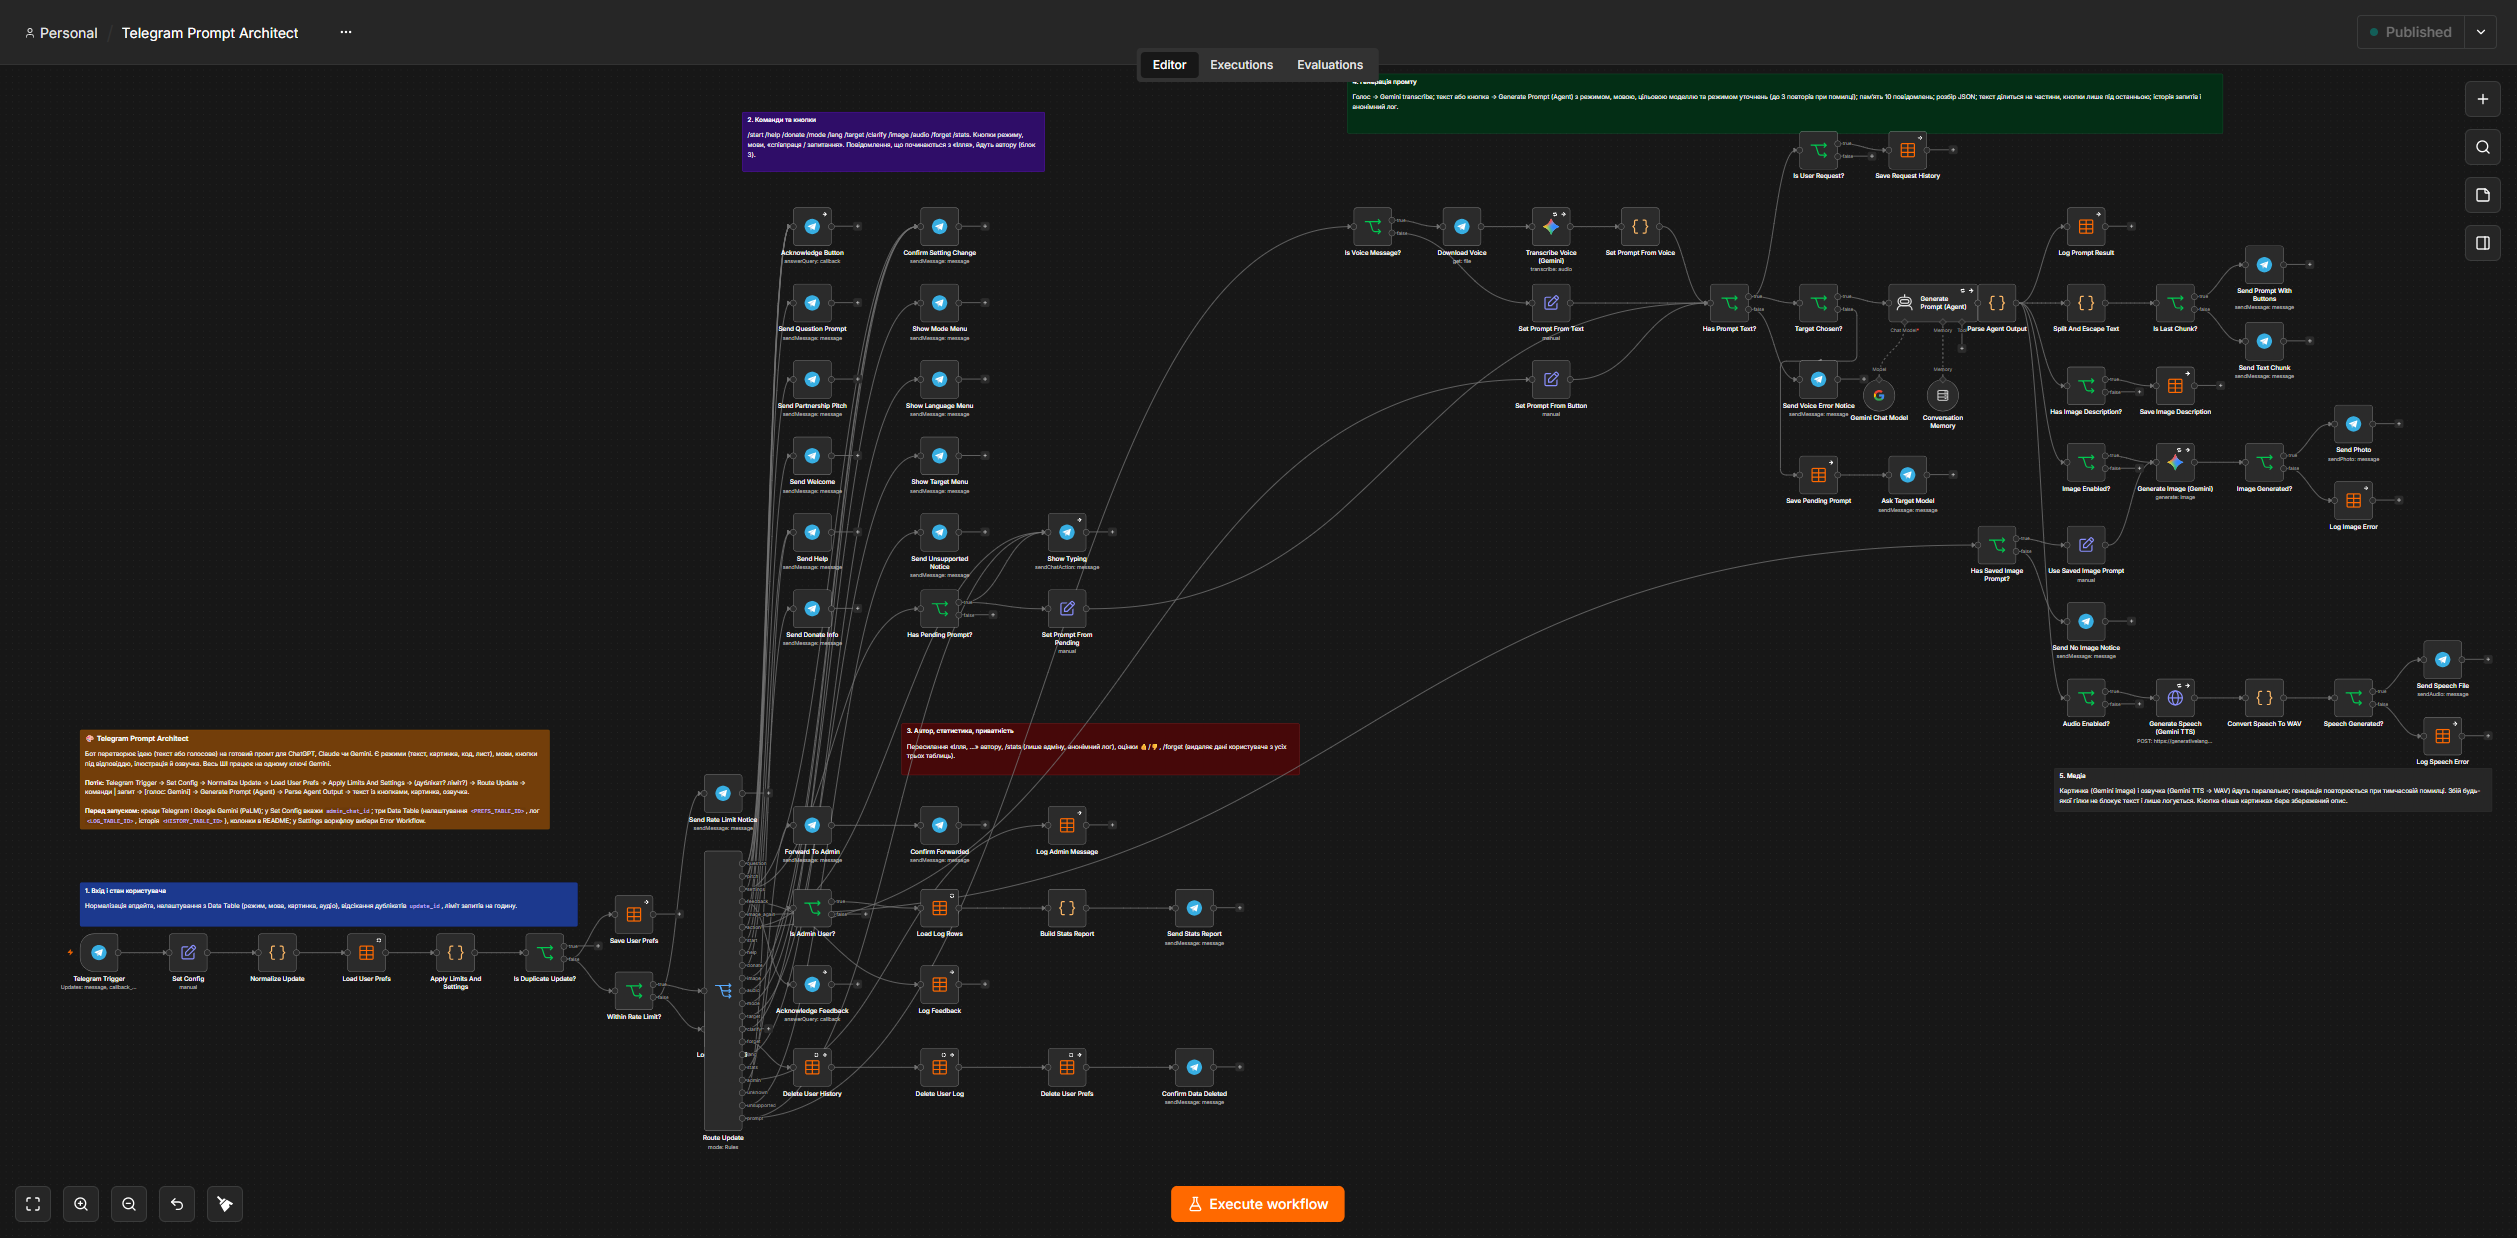
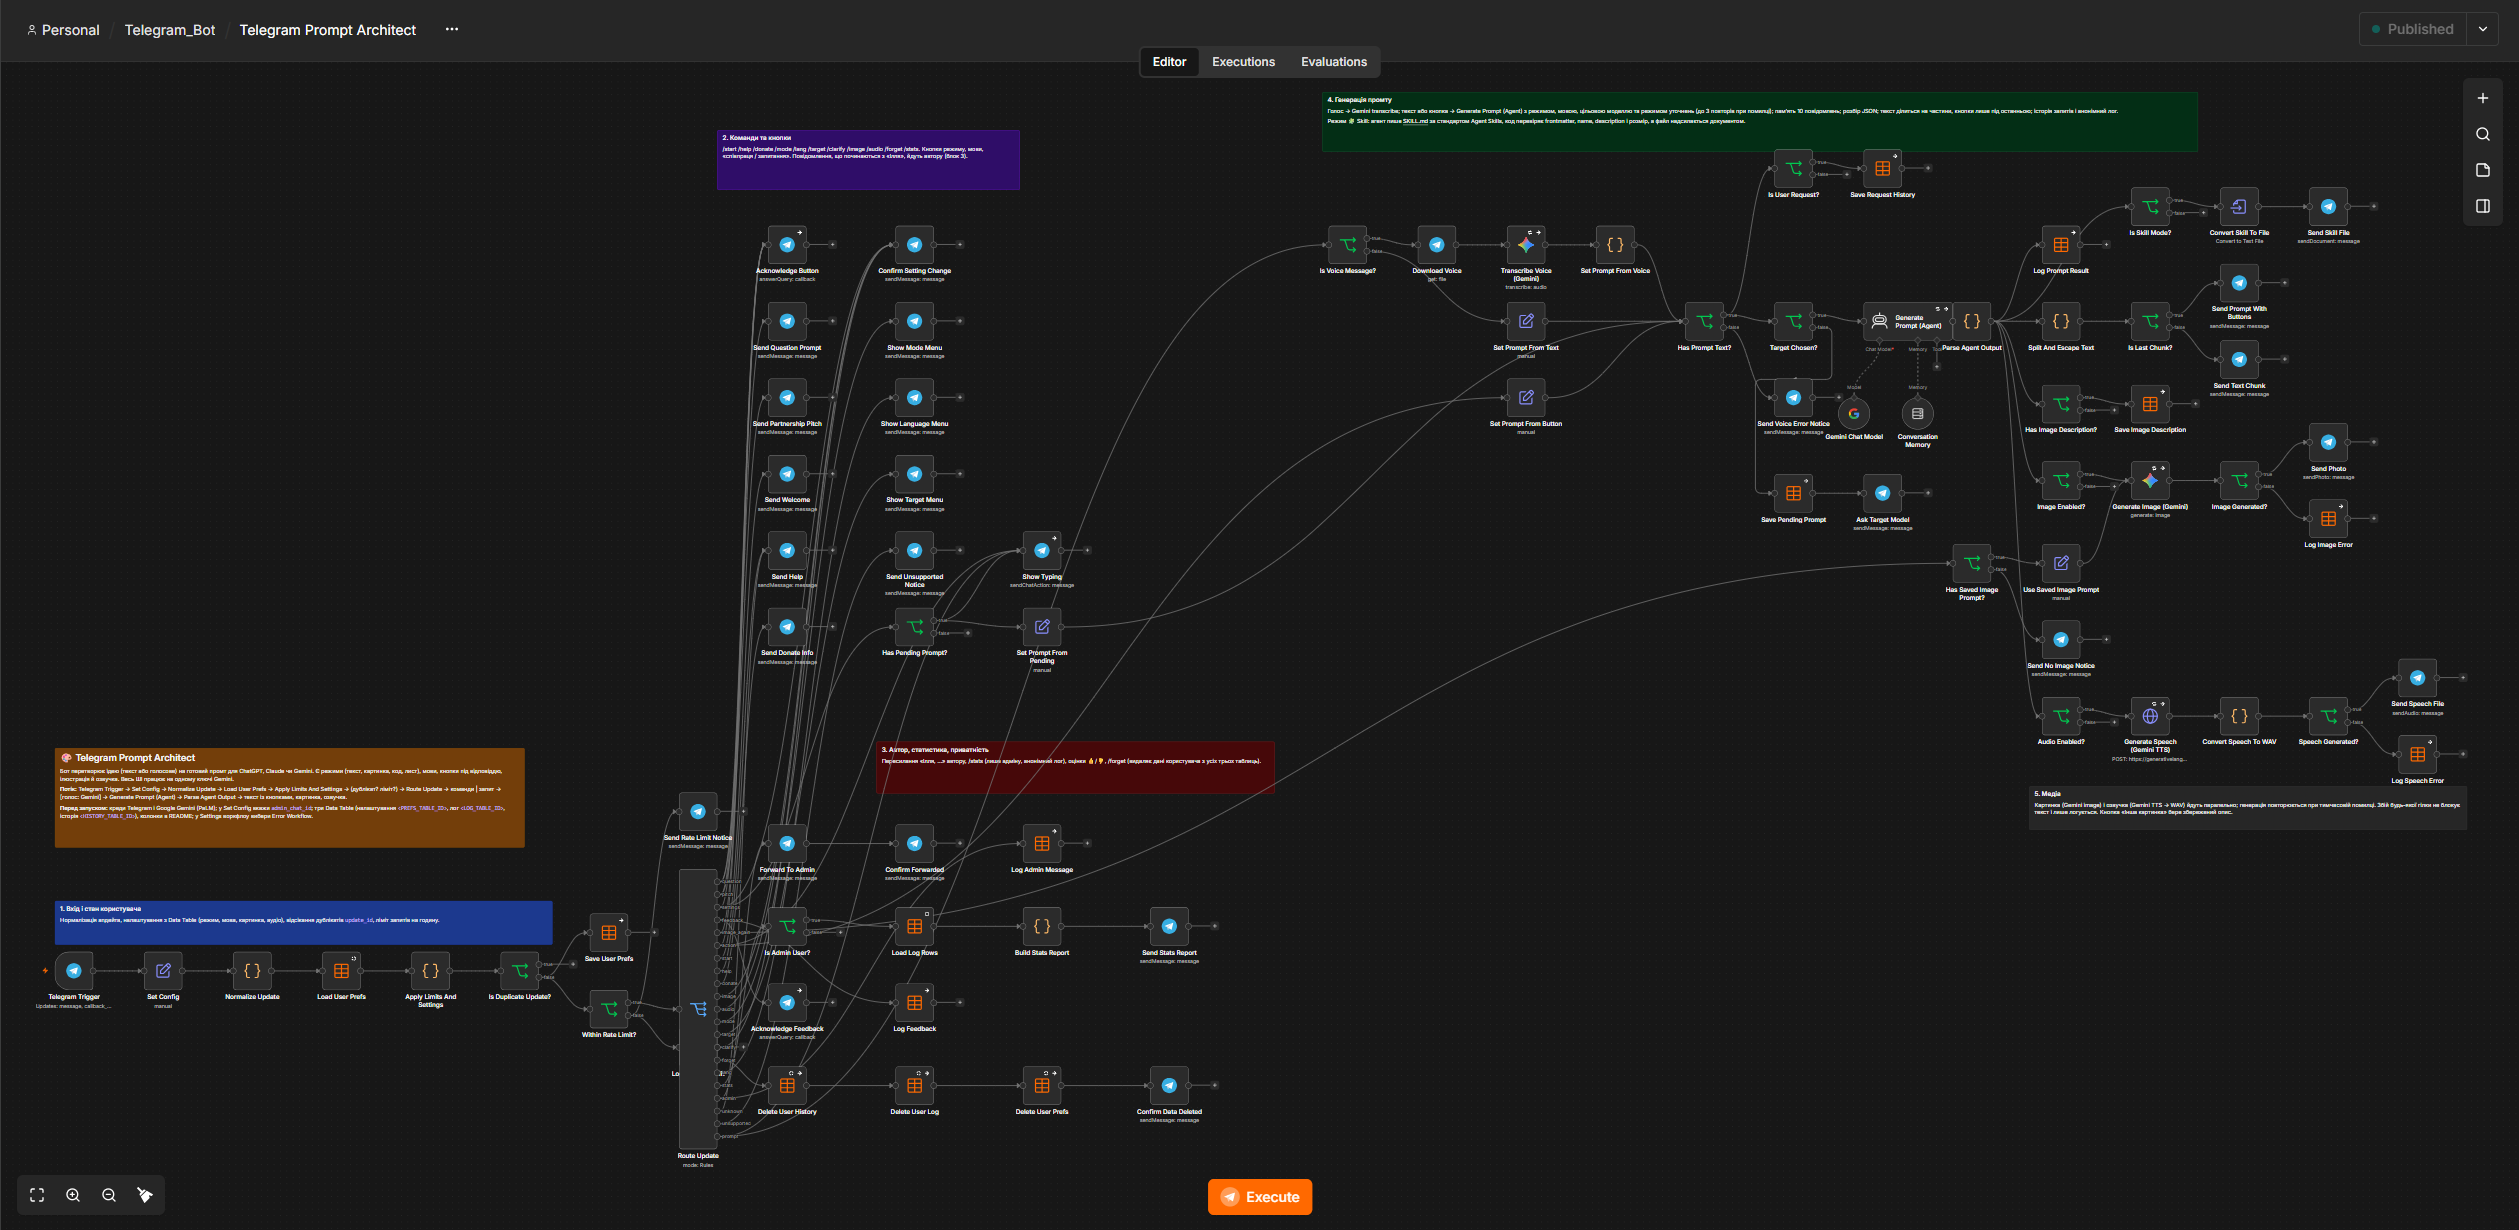
Refresh screenshots for Skill mode (85 nodes) and add Skill chat example

diff --git a/README.md b/README.md
@@ -160,6 +160,10 @@ flowchart TD
 4. `/clarify` працює й тут: бот спершу питає про завдання, вхідні дані та очікуваний результат.
 5. Опис скіла просимо робити широким: різні форми вхідних даних, синоніми й ключові слова двома мовами (це підвищило частоту спрацьовування в реальному агенті).
 
+**Приклад у Telegram:** вибір режиму «🧩 Skill», запит «Створи скіл для SMM-ника» і результат: документ `SKILL.md` із підказкою про назву папки та той самий текст у чаті.
+
+<img src="docs/11-skill-mode-chat.jpg" alt="Режим Skill: файл SKILL.md і текст у чаті" width="360">
+
 ### Як це перевірено
 
 | Перевірка | Результат |
